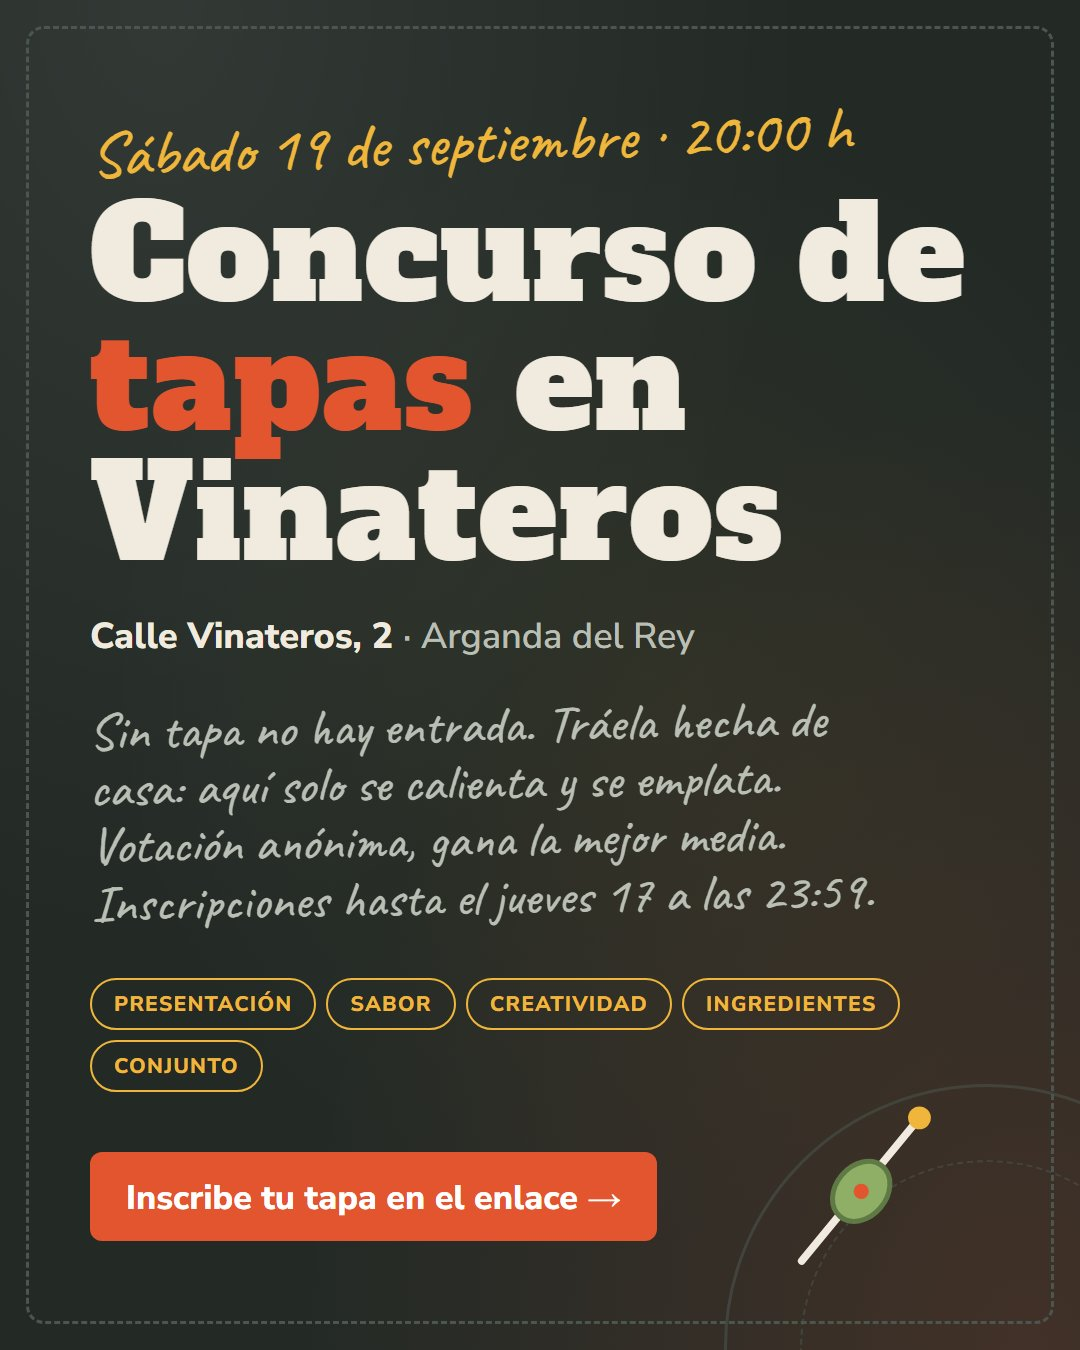
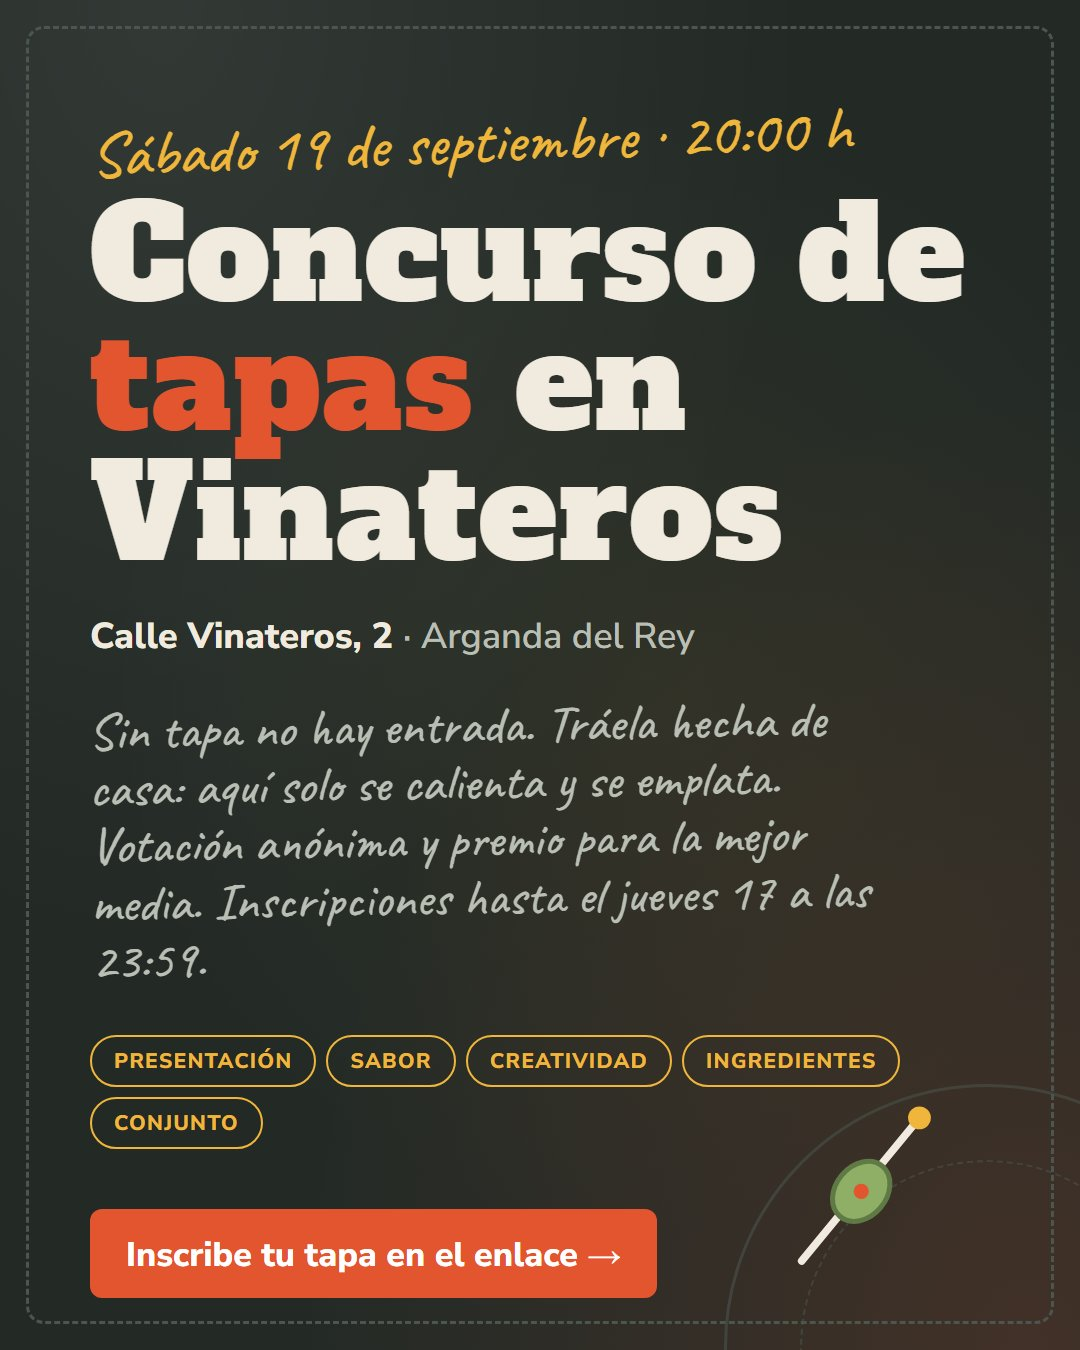
Mejoras: revelación por puestos, jurado más duro y generoso, foto obligatoria, confirmación de voto sin tocar, premio y nueva clave

diff --git a/index.html b/index.html
@@ -182,6 +182,18 @@
   .barra i{display:block; height:8px; border-radius:999px; background:var(--pizarra); border:1px solid var(--linea); overflow:hidden}
   .barra i b{display:block; height:100%; background:var(--azafran)}
   .barra .v{text-align:right; font-variant-numeric:tabular-nums; color:var(--tiza-2)}
+  .mano{font-family:var(--fh); font-size:1.6rem; color:var(--azafran); margin:0 0 12px; line-height:1.1}
+  .revel{text-align:center; padding:26px 18px}
+  .podio{display:grid; gap:10px}
+  .puesto{opacity:0; transform:translateY(12px); transition:opacity .5s, transform .5s; background:var(--pizarra); border:1px solid var(--linea); border-radius:var(--radius); padding:14px; display:grid; gap:4px}
+  .puesto.on{opacity:1; transform:none}
+  .puesto .pn{font-family:var(--fd); color:var(--tiza-3); font-size:1rem; letter-spacing:.06em}
+  .puesto .pq{font-family:var(--fd); font-size:1.5rem; line-height:1.1}
+  .puesto .pp{color:var(--tiza-2)}
+  .puesto .pm{font-family:var(--fd); color:var(--azafran); font-size:1.4rem; font-variant-numeric:tabular-nums}
+  .puesto.oro{border-color:var(--azafran); background:linear-gradient(180deg, rgba(239,182,59,.14), rgba(239,182,59,.03))}
+  .puesto.oro .pn{color:var(--azafran)} .puesto.oro .pq{font-size:2rem; color:var(--tiza)} .puesto.oro .pm{font-size:2rem}
+  .puesto img{width:min(100%,260px); aspect-ratio:4/3; object-fit:cover; border-radius:8px; margin:6px auto 2px; border:1px solid var(--linea)}
   .categorias{display:grid; grid-template-columns:repeat(auto-fit,minmax(180px,1fr)); gap:10px; margin-top:16px}
   .cat{background:var(--pizarra-2); border:1px solid var(--linea); border-radius:8px; padding:12px}
   .cat .label{margin-bottom:4px}
@@ -236,6 +248,7 @@
         <li><span class="n">2</span><div><b>Inscribe tu plato aquí antes del jueves 17 a las 23:59</b> con tu nombre, cómo lo presentas y una foto. Después se cierra la inscripción para saber cuántas tapas hay que preparar. Las tapas quedan en secreto: nadie las ve hasta que el anfitrión dé comienzo al concurso.</div></li>
         <li><span class="n">3</span><div><b>La votación es anónima.</b> Cuando empiece la cata, cada persona puntúa todos los platos menos el suyo. Nadie ve qué nota ha puesto cada cual ni de quién es cada tapa.</div></li>
         <li><span class="n">4</span><div><b>Cuando todo el mundo haya votado,</b> el anfitrión publica los resultados: nombres, medias y la tapa ganadora.</div></li>
+        <li><span class="n">5</span><div><b>Hay premio para la tapa ganadora.</b> Y mención especial para el jurado más duro y el más generoso.</div></li>
       </ol>
     </div>
 
@@ -283,7 +296,7 @@
           <span class="ayuda">Esto es lo que verán los demás antes de votar. No pongas tu nombre aquí si quieres mantener el misterio.</span>
         </div>
         <div class="campo">
-          <label for="f-foto">Foto del plato</label>
+          <label for="f-foto">Foto del plato (obligatoria)</label>
           <div class="foto-zona">
             <div class="foto-prev" id="foto-prev">Sin foto todavía</div>
             <input type="file" id="f-foto" accept="image/*">
@@ -357,12 +370,22 @@
         <div class="lista-personas" id="res-quien" style="margin-top:12px"></div>
       </div>
     </div>
+    <div id="res-revelacion" hidden>
+      <div class="bloque revel">
+        <p class="mano" id="rev-titulo">Y los resultados son…</p>
+        <div class="podio" id="rev-podio"></div>
+        <div class="fila der" style="margin-top:14px"><button class="btn-lin btn-peq" type="button" id="rev-saltar">Saltar</button></div>
+      </div>
+    </div>
     <div id="res-abierto" hidden>
       <div class="ganador" id="ganador"></div>
       <h2>Clasificación</h2>
       <div class="ranking" id="ranking"></div>
       <h2 style="margin-top:20px">Por categorías</h2>
       <div class="categorias" id="categorias"></div>
+      <h2 style="margin-top:20px">El jurado</h2>
+      <div class="categorias" id="jurado"></div>
+      <div class="fila" style="margin-top:16px"><button class="btn-sec btn-peq" type="button" id="rev-repetir">Volver a ver la revelación</button></div>
     </div>
 
     <div class="bloque plano" style="margin-top:22px">
@@ -416,7 +439,7 @@ const EVENTO = {
   hora: "a las 20:00 h",           // Déjalo vacío si no quieres mostrarlo.
   cierreInscripcion: "2026-09-17T23:59:59+02:00", // Jueves 17 de septiembre a las 23:59 (hora de España). Después nadie nuevo puede inscribirse.
   cierreTexto: "jueves 17 a las 23:59",
-  codigoAnfitrion: "VINATEROS",    // Código para el panel del anfitrión. Cámbialo.
+  codigoAnfitrion: "VINATEROS1998*", // Código para el panel del anfitrión.
 };
 
 /* Pega aquí la configuración de tu proyecto de Firebase (ver LEEME.md).
@@ -574,6 +597,7 @@ $("#form-insc").addEventListener("submit", async e => {
   const id = editando ? yo : uid();
   const previo = editando ? D.participantes[yo] : null;
   const p = { nombre, plato, desc, pin, foto: fotoActual || (previo && previo.foto) || "", creado: previo ? previo.creado : Date.now() };
+  if (!p.foto) { $("#f-foto").focus(); return toast("Añade una foto de tu tapa para inscribirla."); }
   const btn = $("#btn-inscribir"); btn.disabled = true;
   try {
     await almacen.guardarParticipante(id, p);
@@ -683,6 +707,7 @@ function render(){
    FICHA DE PUNTUACIÓN
    ========================================================== */
 const sumaVoto = s => CRITERIOS.reduce((t,c) => t + (Number(s[c.k]) || 0), 0);
+let fichaTocada = false;
 
 function abrirFicha(id){
   const p = D.participantes[id]; if (!p) return;
@@ -694,8 +719,9 @@ function abrirFicha(id){
       <input type="range" min="1" max="10" step="1" value="${prev[c.k] || 5}" id="r-${c.k}" aria-label="${c.n}">
       <div class="escala"><span>1 · flojo</span><span>5</span><span>10 · de matrícula</span></div>
     </div>`).join("");
+  fichaTocada = Object.keys(prev).length > 0; // si ya había voto, no hace falta confirmar
   const actualizar = () => { let t = 0; CRITERIOS.forEach(c => { const val = Number($("#r-" + c.k).value); $("#n-" + c.k).textContent = val; t += val; }); $("#ficha-total").textContent = t; };
-  CRITERIOS.forEach(c => $("#r-" + c.k).addEventListener("input", actualizar)); actualizar();
+  CRITERIOS.forEach(c => $("#r-" + c.k).addEventListener("input", () => { fichaTocada = true; actualizar(); })); actualizar();
   $("#votar-lista").hidden = true; $("#votar-ficha").hidden = false; window.scrollTo({top:0});
 }
 $("#btn-volver").addEventListener("click", () => { $("#votar-ficha").hidden = true; $("#votar-lista").hidden = false; platoEnFicha = null; });
@@ -704,6 +730,13 @@ $("#form-voto").addEventListener("submit", async e => {
   if (!yo || !platoEnFicha) return;
   if (!cataAbierta()) return toast("La votación no está abierta.");
   const s = {}; CRITERIOS.forEach(c => s[c.k] = Number($("#r-" + c.k).value));
+  if (!fichaTocada && confirmarPendiente !== "voto:" + platoEnFicha) {
+    confirmarPendiente = "voto:" + platoEnFicha;
+    toast("No has movido ninguna nota: todo se quedaría en 5. Toca otra vez para guardar igualmente.");
+    setTimeout(() => { if (confirmarPendiente === "voto:" + platoEnFicha) confirmarPendiente = null; }, 4000);
+    return;
+  }
+  confirmarPendiente = null;
   const puntos = {...miVoto(), [platoEnFicha]: s};
   try { await almacen.guardarVoto(yo, {puntos, actualizado: Date.now()}); toast("Puntuación guardada"); $("#btn-volver").click(); render(); }
   catch(err){ toast("No se pudo guardar: " + err.message); }
@@ -725,8 +758,54 @@ function calcular(){
 }
 const f1 = x => (Math.round(x*10)/10).toLocaleString("es-ES", {minimumFractionDigits:1, maximumFractionDigits:1});
 
+/* Revelación por puestos (3.º, 2.º, ganador) la primera vez que este móvil ve los resultados */
+let revelacion = sessionStorage.getItem("tapas.revelado") === "1" ? "hecha" : "pendiente"; // pendiente | curso | hecha
+let revTimers = [];
+function terminarRevelacion(){
+  revTimers.forEach(clearTimeout); revTimers = [];
+  revelacion = "hecha"; sessionStorage.setItem("tapas.revelado", "1");
+  render();
+}
+function revelar(r){
+  revelacion = "curso";
+  $("#res-revelacion").hidden = false; $("#res-abierto").hidden = true; $("#res-bloqueado").hidden = true;
+  const podio = $("#rev-podio"); podio.innerHTML = "";
+  const puestos = r.slice(0, 3).map((p, i) => ({...p, pos: i + 1})).reverse(); // 3.º, 2.º, 1.º
+  const tarjeta = p => `<div class="puesto${p.pos === 1 ? " oro" : ""}"><div class="pn">${p.pos === 1 ? "TAPA GANADORA" : p.pos + ".º PUESTO"}</div>${p.pos === 1 && p.foto ? `<img src="${p.foto}" alt="">` : ""}<div class="pq">${esc(p.nombre)}</div><div class="pp">${esc(p.plato)}</div><div class="pm">${f1(p.total)} <small style="font-size:.7em;color:var(--tiza-3)">/ 50</small></div></div>`;
+  puestos.forEach((p, i) => {
+    revTimers.push(setTimeout(() => {
+      $("#rev-titulo").textContent = p.pos === 1 ? "Y la tapa ganadora es…" : p.pos === 2 ? "En segundo lugar…" : "En tercer lugar…";
+      podio.insertAdjacentHTML("beforeend", tarjeta(p));
+      const el = podio.lastElementChild; requestAnimationFrame(() => requestAnimationFrame(() => el.classList.add("on")));
+      window.scrollTo({top: document.body.scrollHeight, behavior: "smooth"});
+    }, 1800 + i * 2600));
+  });
+  revTimers.push(setTimeout(() => { $("#rev-titulo").textContent = "¡Enhorabuena!"; }, 1800 + puestos.length * 2600));
+  revTimers.push(setTimeout(terminarRevelacion, 1800 + puestos.length * 2600 + 3500));
+}
+$("#rev-saltar").addEventListener("click", terminarRevelacion);
+$("#rev-repetir").addEventListener("click", () => { revelacion = "pendiente"; render(); });
+
+function jurado(){
+  // Media de lo que ha puntuado cada persona (total sobre 50), sin revelar a quién
+  const ps = lista();
+  return ps.map(p => {
+    const v = (D.votos[p.id] && D.votos[p.id].puntos) || {};
+    const totales = Object.entries(v).filter(([id]) => id !== p.id && D.participantes[id]).map(([, s]) => sumaVoto(s));
+    return {nombre: p.nombre, n: totales.length, media: totales.length ? totales.reduce((a,b) => a+b, 0) / totales.length : null};
+  }).filter(j => j.media !== null);
+}
+
 function renderResultados(){
   const abiertos = resultadosAbiertos();
+  if (!abiertos && revelacion === "curso") { revTimers.forEach(clearTimeout); revTimers = []; revelacion = "pendiente"; }
+  $("#res-revelacion").hidden = true;
+  if (abiertos && revelacion === "pendiente") {
+    // Espera a tener las tapas cargadas de la nube antes de empezar la revelación
+    if (!lista().length) { $("#res-bloqueado").hidden = true; $("#res-abierto").hidden = true; return; }
+    revelar(calcular()); return;
+  }
+  if (abiertos && revelacion === "curso") { $("#res-revelacion").hidden = false; $("#res-abierto").hidden = true; $("#res-bloqueado").hidden = true; return; }
   $("#res-bloqueado").hidden = abiertos; $("#res-abierto").hidden = !abiertos;
   $("#res-titulo").textContent = cataAbierta() ? "Aún no hay resultados" : "Los resultados se publican el día 19";
   const ps = lista();
@@ -744,7 +823,7 @@ function renderResultados(){
   const g = r[0];
   if (!g) { $("#ganador").innerHTML = "<p>No hay tapas.</p>"; $("#ranking").innerHTML = ""; $("#categorias").innerHTML = ""; return; }
   const empate = r.length > 1 && Math.abs(r[1].total - g.total) < 0.001;
-  $("#ganador").innerHTML = `<span class="sello">${empate ? "Empate en cabeza" : "Tapa ganadora"}</span>
+  $("#ganador").innerHTML = `<span class="sello">${empate ? "Empate en cabeza" : "Tapa ganadora · se lleva el premio"}</span>
     ${g.foto ? `<img src="${g.foto}" alt="${esc(g.plato)}">` : ""}
     <div class="nombre">${esc(g.nombre)}</div>
     <div class="plato-n">${esc(g.plato)}</div>
@@ -763,6 +842,14 @@ function renderResultados(){
     const platos = mejores.length === 1 ? esc(mejores[0].plato) : "Empate";
     return `<div class="cat"><div class="label">Mejor ${c.n.toLowerCase()}</div><div class="q">${nombres}</div><div class="w">${platos} · ${f1(max)}</div></div>`;
   }).join("");
+  const js = jurado();
+  if (js.length >= 2) {
+    const min = Math.min(...js.map(j => j.media)), max = Math.max(...js.map(j => j.media));
+    const duros = js.filter(j => Math.abs(j.media - min) < 0.001).map(j => esc(j.nombre)).join(" y ");
+    const blandos = js.filter(j => Math.abs(j.media - max) < 0.001).map(j => esc(j.nombre)).join(" y ");
+    $("#jurado").innerHTML = `<div class="cat"><div class="label">Jurado más duro</div><div class="q">${duros}</div><div class="w">Ha puntuado de media ${f1(min)} / 50</div></div>
+      <div class="cat"><div class="label">Jurado más generoso</div><div class="q">${blandos}</div><div class="w">Ha puntuado de media ${f1(max)} / 50</div></div>`;
+  } else $("#jurado").innerHTML = "";
 }
 
 /* ==========================================================

diff --git a/flyer.html b/flyer.html
@@ -68,7 +68,7 @@
   <div class="tags">
     <span class="tag on">Presentación</span><span class="tag on">Sabor</span><span class="tag on">Creatividad</span><span class="tag on">Ingredientes</span><span class="tag on">Conjunto</span>
   </div>
-  <p class="nota">Sin tapa no hay entrada. Tráela hecha de casa, aquí solo se calienta y se emplata</p>
+  <p class="nota">Sin tapa no hay entrada. Tráela hecha de casa, aquí solo se calienta y se emplata. ¡Hay premio!</p>
   <span class="cta">Apúntate antes del jueves 17 →</span>
   <div class="plato"></div>
   <svg class="oliva" viewBox="0 0 150 150" fill="none" stroke-linecap="round">
@@ -84,7 +84,7 @@
   <span class="eyebrow">Sábado 19 de septiembre · 20:00 h</span>
   <h1>Concurso de <em>tapas</em> en Vinateros</h1>
   <p class="dir"><b>Calle Vinateros, 2</b> · Arganda del Rey</p>
-  <p class="nota">Sin tapa no hay entrada. Tráela hecha de casa: aquí solo se calienta y se emplata. Votación anónima, gana la mejor media. Inscripciones hasta el jueves 17 a las 23:59.</p>
+  <p class="nota">Sin tapa no hay entrada. Tráela hecha de casa: aquí solo se calienta y se emplata. Votación anónima y premio para la mejor media. Inscripciones hasta el jueves 17 a las 23:59.</p>
   <div class="tags">
     <span class="tag on">Presentación</span><span class="tag on">Sabor</span><span class="tag on">Creatividad</span><span class="tag on">Ingredientes</span><span class="tag on">Conjunto</span>
   </div>

diff --git a/LEEME.md b/LEEME.md
@@ -16,7 +16,7 @@ Al principio del `<script>` de `index.html` está el bloque `EVENTO`:
 
 - `hora`: pon por ejemplo `"a partir de las 14:00"` si quieres que salga.
 - `codigoAnfitrion`: el código para entrar en el panel del anfitrión (pestaña Resultados, abajo).
-  Ahora es `VINATEROS`. Cámbialo por algo que solo sepas tú.
+  Ahora es `VINATEROS1998*`.
 
 ## 2. Crear la base de datos en Firebase (modo nube)
 
